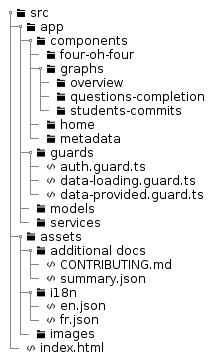
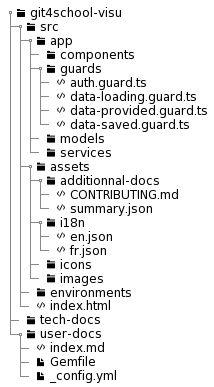
📝 Tech doc updated

diff --git a/src/assets/additional-docs/CONTRIBUTING.md b/src/assets/additional-docs/CONTRIBUTING.md
@@ -46,8 +46,10 @@ If you want to create a new guard, do the following :
 
 ### models
 
-This folder contains all the models of the application. These are classes that can be instantiated to facilitate data management in the application. We use 4 fairly explicit model classes :
+This folder contains all the models of the application. These are classes that can be instantiated to facilitate data management in the application. We have 6 fairly explicit model classes :
 
+- Assignment : this is a collection of repositories, milestones, sessions and metadata (start date, end date, course ...)
+- Metadata
 - Commit
 - Milestone (review, correction, other)
 - Repository
@@ -99,10 +101,6 @@ If you want to add a page to the documentation, create a file `<myDoc>.md` and u
 ]
 ```
 
-To build the documentation (into `docs` folder), execute `npm run doc`.
-
-> When deploying a new version to firebase, run `npm run build:doc` and then `firebase deploy`.
-
 ### i18n
 
 This folder is very important because it manages the localization of the application. It contains the json files corresponding to the possible localizations of the application. For the moment there are only 2 files:
@@ -124,7 +122,7 @@ constructor(
 }
 ```
 
-In this new file you _must_ translate every variable contained in the other files. Which means that there must be the same variables in all localization files.
+In this new file you **must** translate every variable contained in the other files. Which means that there must be the same variables in all localization files.
 To make your life easier and avoid forgetting things, I advise you to use [BabelEdit](https://www.codeandweb.com/babeledit/download).
 
 ### images
@@ -132,3 +130,29 @@ To make your life easier and avoid forgetting things, I advise you to use [Babel
 This folder contains images used in the application.
 There are no special rules, you can reorganize the folder at your convenience if the content starts to grow a bit too much. If so, update the path of images used for the user guide in `/home`.
 You can access these files with `assets/images/<myImage>`.
+
+## tech-docs
+
+This folder should not be present because it is generated after a merge on **master** only and **should never be pushed**. However, it is in this folder that the technical documentation will be generated by serving it locally. This is very useful to see the changes made before pushing the code.
+
+To serve the technical documentation locally, execute `yarn run serve-tech-docs`.
+
+## user documentation
+
+This folder contains a collection of files, including markdown files which, once converted using [Jekyll](https://jekyllrb.com/docs/), will result in HTML files that constitute the user documentation. This conversion is done automatically after the merge on **master** thanks to Github Pages. 
+
+> **Prerequisite :** to serve the user documentation locally, [Ruby](https://rubyinstaller.org/) and and [Bundler](https://bundler.io/) must be installed and run `bundle install`.
+
+To serve the user documentation locally, execute `yarn run serve-user-docs`.
+
+### Details of the existing files
+
+- `docs/` : this folder contains all the markdown (`.md`) files that will constitute the user documentation. 
+  - The Jekyll theme we're using is [Just the Docs](https://pmarsceill.github.io/just-the-docs/), you can find more information on how navigation works according to file distribution [here](https://pmarsceill.github.io/just-the-docs/docs/navigation-structure/#pages-with-children)
+- `.gitignore` : this file has the same function as the one present at the root of the project, but its scope is limited to the user documentation. In particular, it prevents the generated documentation from being pushed after serving it locally
+- `_config.yml` : this where the options to configure Jekyll are set up
+- `Gemfile` : it's in this file that are indicated the Jekyll plugins to use, **only when serving locally**. When running `bundle install`, the Jekyll plugins indicated in this file are installed
+- `Gemfile.lock` : this file is used to install the same versions of Jekyll plugins from one machine to another and therefore facilitates collaborative work
+- `index.md` : this is the user documentation root, the **home page**
+
+> For more detailled information about the directory structure, you can read the [Jekyll documentation](https://jekyllrb.com/docs/structure/).
